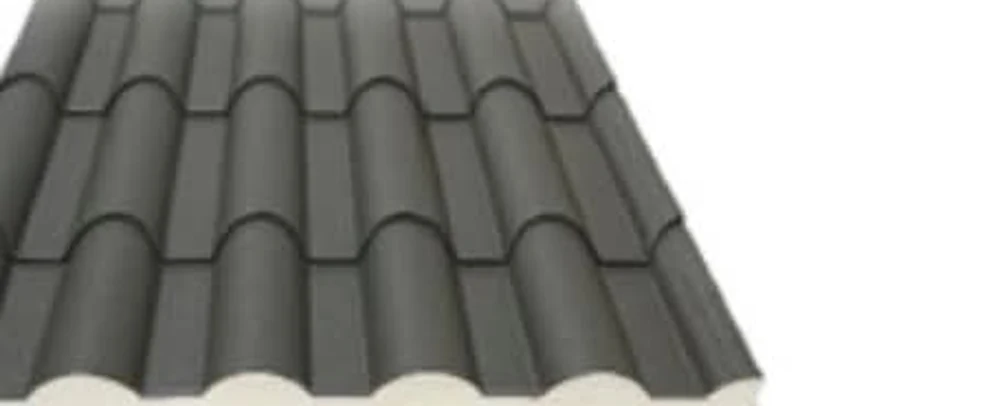
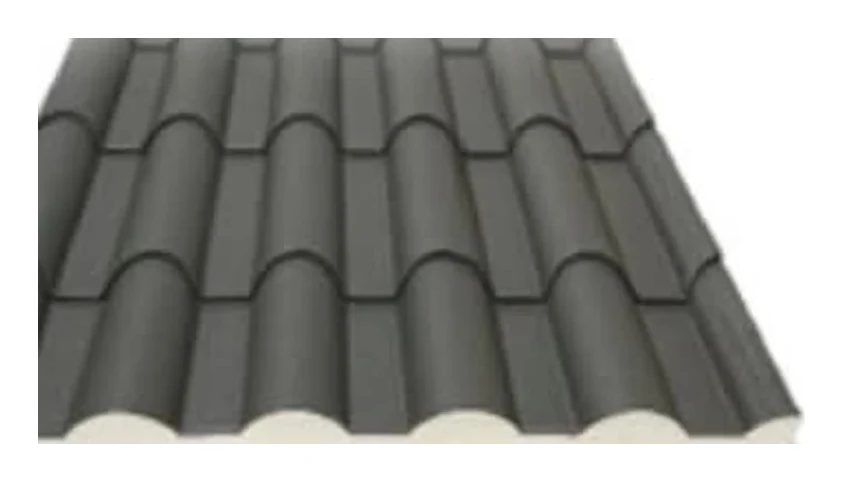
feat: tel oficina, foto gris centrada, Albero, Panel fachada, toda España
- Añade teléfono de oficina [phone redacted] (footer y contacto)
- Recentra la foto del Fertelha gris (estaba desplazada a la izquierda)
- Renombra colores Fertelha: granate -> Albero envejecido oscuro,
  negro -> Albero envejecido claro
- Renombra la variante gris de cubierta a "Panel fachada"
- StatsStrip: "600 km / Radio de entrega" -> "Toda España"
- Hero y footer: "hecho en Extremadura" -> "creado a medida"
- Elimina el CIF (footer, aviso legal y política de privacidad)

diff --git a/components/sections/StatsStrip.tsx b/components/sections/StatsStrip.tsx
@@ -5,6 +5,8 @@ import { useEffect, useRef, useState } from "react";
 interface Stat {
   /** Valor numérico final */
   value: number;
+  /** Texto fijo (sin contador animado), ej. "Toda España". Tiene prioridad sobre value. */
+  text?: string;
   /** Sufijo a mostrar tras el número (ej. "+", "k+", " km") */
   suffix?: string;
   /** Prefijo opcional */
@@ -37,7 +39,7 @@ const DEFAULT_STATS: Stat[] = [
   { value: 15, suffix: "+", label: "Años fabricando" },
   { value: 500, suffix: "k m²", label: "Fabricados" },
   { value: 800, suffix: "+", label: "Proyectos entregados" },
-  { value: 600, suffix: " km", label: "Radio de entrega" },
+  { value: 0, text: "Toda España", label: "Radio de entrega" },
 ];
 
 function StatCell({ stat }: { stat: Stat }) {
@@ -47,7 +49,7 @@ function StatCell({ stat }: { stat: Stat }) {
 
   useEffect(() => {
     const el = ref.current;
-    if (!el) return;
+    if (!el || stat.text) return;
 
     const observer = new IntersectionObserver(
       (entries) => {
@@ -60,15 +62,21 @@ function StatCell({ stat }: { stat: Stat }) {
     );
     observer.observe(el);
     return () => observer.disconnect();
-  }, [stat.value, animated]);
+  }, [stat.value, stat.text, animated]);
 
   return (
     <div ref={ref} className="px-4 py-6 md:px-8 md:py-10">
-      <p className="font-display text-3xl font-semibold tabular-nums md:text-5xl">
-        {stat.prefix}
-        {displayed}
-        {stat.suffix}
-      </p>
+      {stat.text ? (
+        <p className="font-display text-2xl font-semibold leading-tight md:text-4xl">
+          {stat.text}
+        </p>
+      ) : (
+        <p className="font-display text-3xl font-semibold tabular-nums md:text-5xl">
+          {stat.prefix}
+          {displayed}
+          {stat.suffix}
+        </p>
+      )}
       <p className="mt-1 text-xs uppercase tracking-wider text-white/50 md:text-sm">
         {stat.label}
       </p>

diff --git a/components/layout/Footer.tsx b/components/layout/Footer.tsx
@@ -40,6 +40,14 @@ export function Footer() {
                 <span className="font-mono">{SITE.contact.phone}</span>
               </a>
               <a
+                href={`tel:${SITE.contact.phoneOffice.replace(/\s/g, "")}`}
+                className="flex items-center gap-2 transition hover:text-white"
+              >
+                <Phone className="h-4 w-4 text-[var(--color-accent-soft)]" />
+                <span className="font-mono">{SITE.contact.phoneOffice}</span>
+                <span className="text-white/40">· Oficina</span>
+              </a>
+              <a
                 href={`mailto:${SITE.contact.email}`}
                 className="flex items-center gap-2 transition hover:text-white"
               >
@@ -130,12 +138,10 @@ export function Footer() {
 
         <div className="mt-16 flex flex-col items-start justify-between gap-4 border-t border-white/10 pt-8 text-xs text-white/70 md:flex-row md:items-center">
           <p>
-            © {year} {SITE.legalName} · CIF{" "}
-            <span className="font-mono">{SITE.cif}</span> · Todos los derechos
-            reservados.
+            © {year} {SITE.legalName} · Todos los derechos reservados.
           </p>
           <p className="font-mono">
-            Hecho en Extremadura ·{" "}
+            Creado a medida ·{" "}
             <span className="text-[var(--color-accent-soft)]">●</span> Made for
             steel.
           </p>

diff --git a/lib/products.ts b/lib/products.ts
@@ -137,8 +137,8 @@ const FERTELHA_COLORS = [
   { slug: "chocolate", label: "Chocolate" },
   { slug: "rojo", label: "Rojo" },
   { slug: "gris", label: "Gris" },
-  { slug: "granate", label: "Granate" },
-  { slug: "negro", label: "Negro" },
+  { slug: "granate", label: "Albero envejecido oscuro" },
+  { slug: "negro", label: "Albero envejecido claro" },
 ] as const;
 
 type FertelhaColor = (typeof FERTELHA_COLORS)[number]["slug"];
@@ -257,11 +257,13 @@ function makeFertelhaProduct(color: {
 function makePanelCubiertaProduct(color: {
   slug: "rojo" | "gris";
   label: string;
+  /** Nombre comercial a mostrar (si se omite, se compone con el color) */
+  name?: string;
 }): Product {
   return {
     slug: `panel-cubierta-${color.slug}`,
     code: `PC-CUBIERTA-${color.slug.toUpperCase()}`,
-    name: `Panel sándwich cubierta — ${color.label}`,
+    name: color.name ?? `Panel sándwich cubierta — ${color.label}`,
     category: "cubierta",
     subtype: "cinco-grecas",
     description: `Panel sándwich de cubierta con 5 grecas en color ${color.label.toLowerCase()}. Espesores 30 y 100 mm, opción Agropanel.`,
@@ -308,7 +310,7 @@ export const PRODUCTS: Product[] = [
   // PANEL SÁNDWICH CUBIERTA (5 grecas) — 2 colores como 2 productos
   // ============================================================
   makePanelCubiertaProduct({ slug: "rojo", label: "Rojo" }),
-  makePanelCubiertaProduct({ slug: "gris", label: "Gris" }),
+  makePanelCubiertaProduct({ slug: "gris", label: "Gris", name: "Panel fachada" }),
 
   // ============================================================
   // PANEL SÁNDWICH FACHADA — NERVADA

diff --git a/app/(marketing)/contacto/page.tsx b/app/(marketing)/contacto/page.tsx
@@ -58,13 +58,13 @@ export default function ContactoPage() {
               />
               <ContactCard
                 Icon={Phone}
-                title="Teléfono"
+                title="Teléfono oficina"
                 primary={
                   <a
-                    href={`tel:${SITE.contact.phone.replace(/\s/g, "")}`}
+                    href={`tel:${SITE.contact.phoneOffice.replace(/\s/g, "")}`}
                     className="font-mono text-base text-[var(--color-text)] hover:text-[var(--color-primary)]"
                   >
-                    {SITE.contact.phone}
+                    {SITE.contact.phoneOffice}
                   </a>
                 }
                 secondary={SITE.contact.hours}

diff --git a/app/layout.tsx b/app/layout.tsx
@@ -1,5 +1,6 @@
 import type { Metadata } from "next";
 import { Inter, Space_Grotesk, JetBrains_Mono } from "next/font/google";
+import { Analytics } from "@vercel/analytics/next";
 import "./globals.css";
 
 const sans = Inter({
@@ -43,7 +44,10 @@ export default function RootLayout({
 }) {
   return (
     <html lang="es" className={`${sans.variable} ${display.variable} ${mono.variable}`}>
-      <body>{children}</body>
+      <body>
+        {children}
+        <Analytics />
+      </body>
     </html>
   );
 }

diff --git a/app/(marketing)/aviso-legal/page.tsx b/app/(marketing)/aviso-legal/page.tsx
@@ -29,10 +29,6 @@ export default function AvisoLegalPage() {
           <strong>Titular:</strong> {SITE.legalName}
         </li>
         <li>
-          <strong>CIF:</strong> <code>{SITE.cif}</code>{" "}
-          <em>(pendiente de validar — TODO_CLIENTE.md)</em>
-        </li>
-        <li>
           <strong>Domicilio social:</strong> {SITE.address.street},{" "}
           {SITE.address.postalCode} {SITE.address.city} ({SITE.address.province}),
           {" "}{SITE.address.country}.

diff --git a/lib/site.ts b/lib/site.ts
@@ -10,8 +10,6 @@ export const SITE = {
     "Fabricantes de panel sándwich y chapa perfilada en Extremadura.",
   url: "https://panelex.es",
   defaultLocale: "es-ES",
-  /** CIF placeholder — pendiente de validar con cliente (TODO_CLIENTE.md) */
-  cif: "B-XXXXXXXXX",
   address: {
     street: "Avenida Carmen Amigo, 62",
     postalCode: "06490",
@@ -25,6 +23,8 @@ export const SITE = {
     phone: "[phone redacted]",
     /** Mismo número en formato wa.me (sin +, sin espacios) */
     whatsapp: "[phone redacted]",
+    /** Teléfono fijo de oficina */
+    phoneOffice: "[phone redacted]",
     email: "[email redacted]",
     salesContact: {
       name: "Ramón Romero Fernández",

diff --git a/app/(marketing)/politica-privacidad/page.tsx b/app/(marketing)/politica-privacidad/page.tsx
@@ -30,9 +30,6 @@ export default function PoliticaPrivacidadPage() {
           <strong>Identidad:</strong> {SITE.legalName}
         </li>
         <li>
-          <strong>CIF:</strong> <code>{SITE.cif}</code>
-        </li>
-        <li>
           <strong>Domicilio:</strong> {SITE.address.street},{" "}
           {SITE.address.postalCode} {SITE.address.city}, {SITE.address.country}.
         </li>

diff --git a/components/sections/Hero.tsx b/components/sections/Hero.tsx
@@ -42,7 +42,7 @@ export function Hero() {
         <h1 className="mt-8 max-w-5xl font-display text-5xl font-semibold leading-[0.95] tracking-tight md:text-7xl lg:text-[6.5rem]">
           Panel sándwich
           <br />
-          <span className="text-[var(--color-primary-soft)]">hecho en Extremadura,</span>
+          <span className="text-[var(--color-primary-soft)]">creado a medida,</span>
           <br />
           montado en toda Iberia.
         </h1>